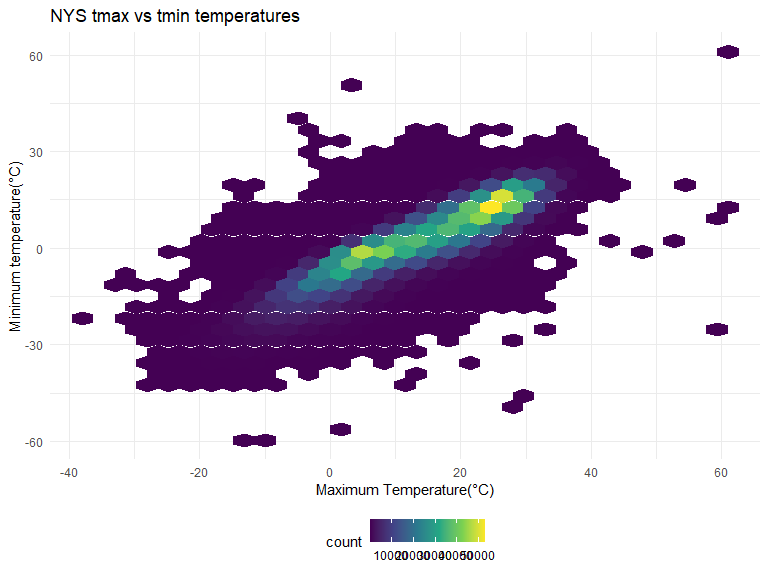
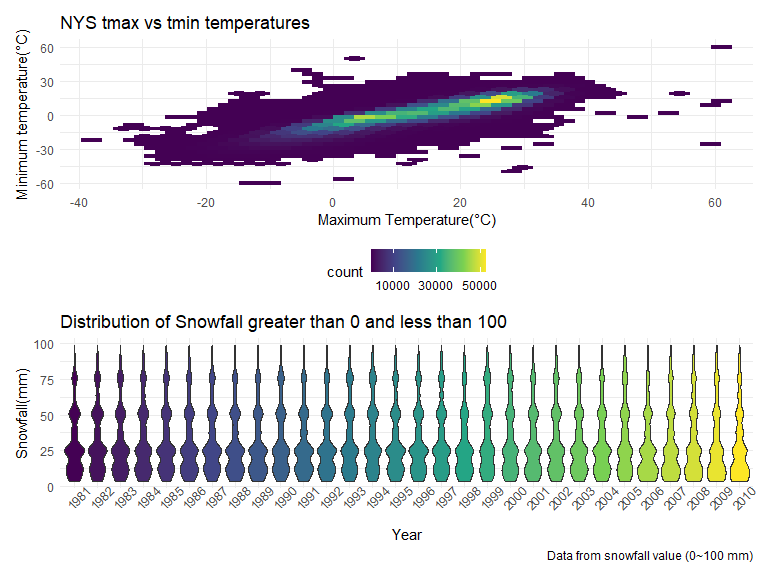
Finished problem 3

diff --git a/p8105_hw3_sl5232.md b/p8105_hw3_sl5232.md
@@ -366,11 +366,9 @@ tmaxmin_plot = ny_noaa %>%
   labs(
     title = "NYS tmax vs tmin temperatures",
     x = "Maximum Temperature(°C)",
-    y = "Minimum temperature(°C)") 
-tmaxmin_plot
+    y = "Minimum temperature(°C)") +
+  scale_fill_continuous(breaks = c(10000, 30000, 50000)) 
 ```
-
-<img src="p8105_hw3_sl5232_files/figure-gfm/two_panel-1.png" width="90%" />
 
 ``` r
 snow_distri = ny_noaa %>% 
@@ -386,3 +384,9 @@ snow_distri = ny_noaa %>%
   theme(axis.text.x = element_text(angle = 45),
         legend.position = "none")
 ```
+
+``` r
+tmaxmin_plot / snow_distri
+```
+
+<img src="p8105_hw3_sl5232_files/figure-gfm/two_panel-1.png" width="90%" />
